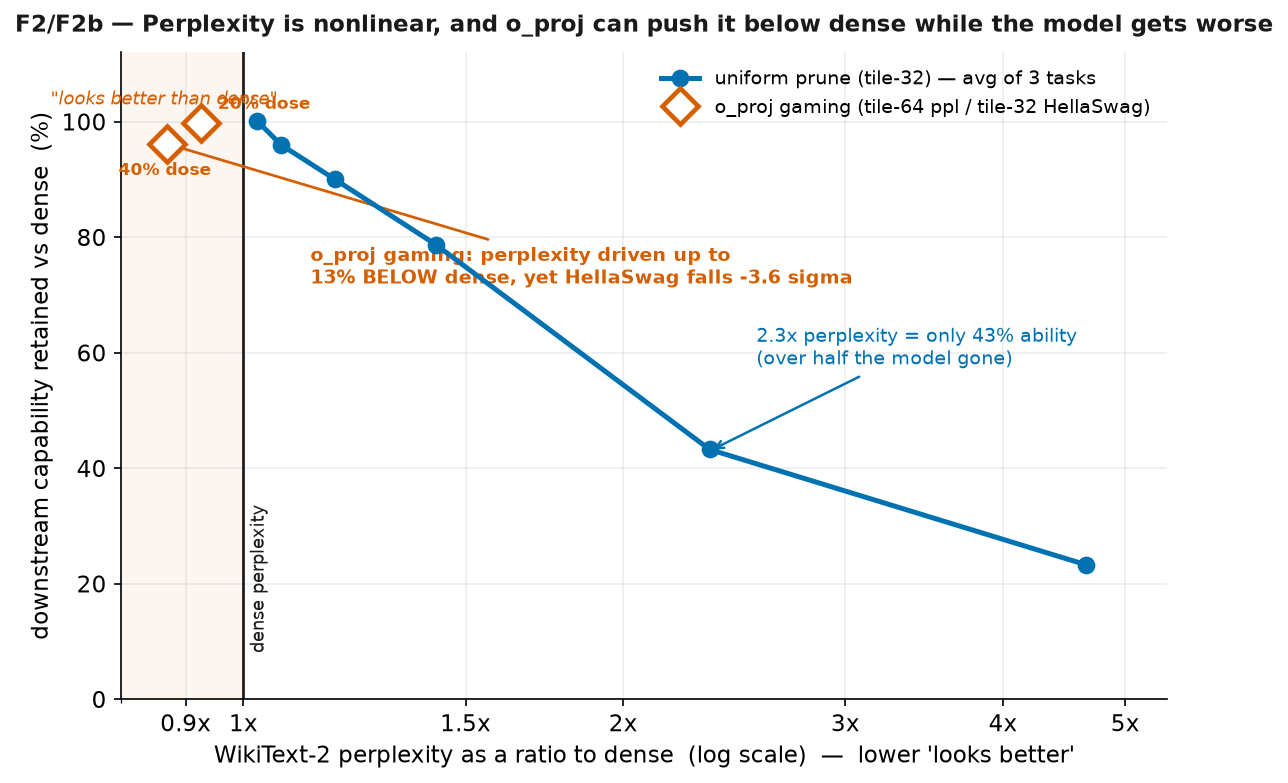
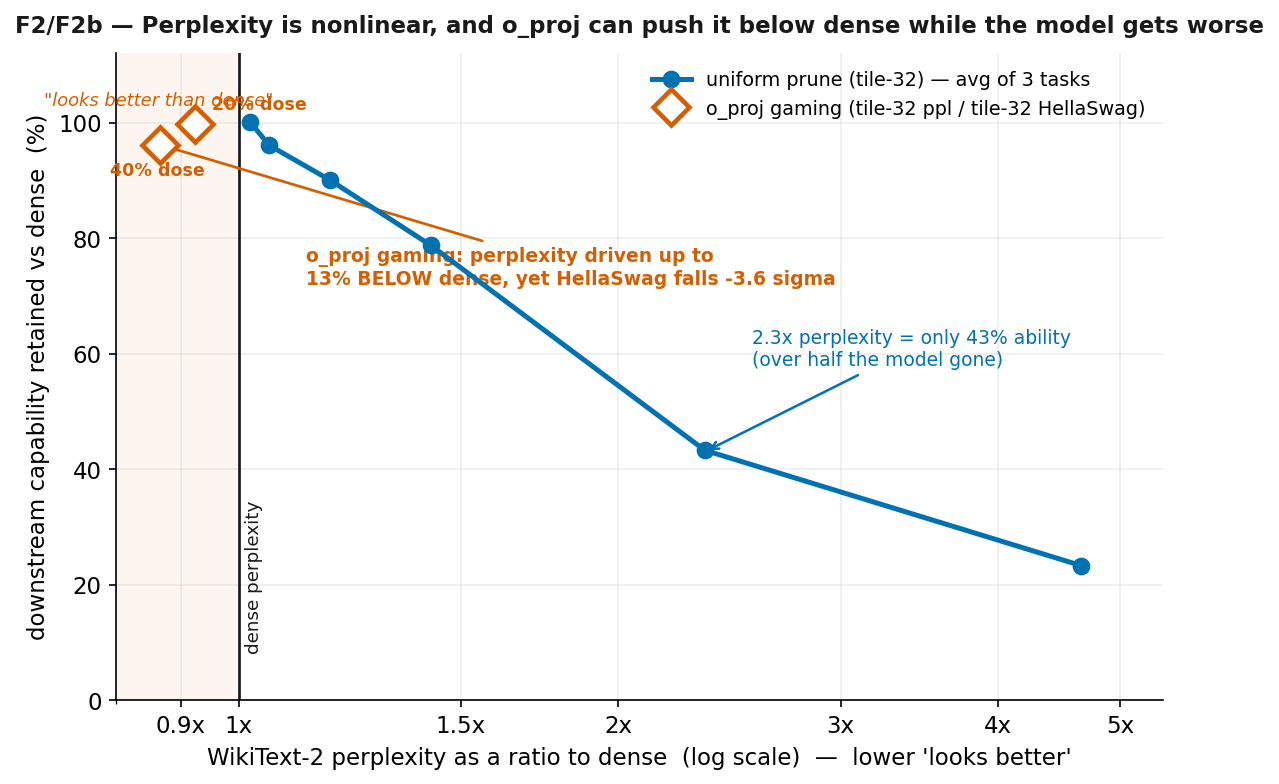
Fix Figure 2 to use the 32x32 results
I detected one mistake: this file was using the 64x64 results, but it
should use 32x32 to be more accurate and consistent with the report we
created.

diff --git a/experiments/experiment_2_qwen3_4b/analysis/make_findings_figures.py b/experiments/experiment_2_qwen3_4b/analysis/make_findings_figures.py
@@ -136,9 +136,9 @@ def f2_perplexity_scissors():
     ux, uy = zip(*uni)
 
     game = [
-        (ppl_of(load("experiments/experiment_2_qwen3_4b/results/legacy_tile64/oproj_targeted/wholemodel_wanda_p20.json")) / DENSE_WT,
+        (ppl_of(load("experiments/experiment_2_qwen3_4b/results/07_oproj_targeting/targeted_layers/wholemodel_wanda_p20.json")) / DENSE_WT,
          hs_ret("experiments/experiment_2_qwen3_4b/results/07_oproj_targeting/downstream/downstream_oproj_targeted_wanda_p20.json"), "20% dose"),
-        (ppl_of(load("experiments/experiment_2_qwen3_4b/results/legacy_tile64/oproj_targeted/wholemodel_wanda_p40.json")) / DENSE_WT,
+        (ppl_of(load("experiments/experiment_2_qwen3_4b/results/07_oproj_targeting/targeted_layers/wholemodel_wanda_p40.json")) / DENSE_WT,
          hs_ret("experiments/experiment_2_qwen3_4b/results/07_oproj_targeting/downstream/downstream_oproj_targeted_wanda_p40.json"), "40% dose"),
     ]
 
@@ -159,7 +159,7 @@ def f2_perplexity_scissors():
     gx = [g[0] for g in game]
     gy = [g[1] for g in game]
     ax.plot(gx, gy, "D", color=VERM, ms=12, zorder=6, markerfacecolor="white",
-            markeredgewidth=2.2, label="o_proj gaming (tile-64 ppl / tile-32 HellaSwag)")
+            markeredgewidth=2.2, label="o_proj gaming (tile-32 ppl / tile-32 HellaSwag)")
     ax.annotate("20% dose", xy=(game[0][0], game[0][1]), xytext=(8, 7),
                 textcoords="offset points", fontsize=8.4, color=VERM, fontweight="bold")
     ax.annotate("40% dose", xy=(game[1][0], game[1][1]), xytext=(-1, -15),
